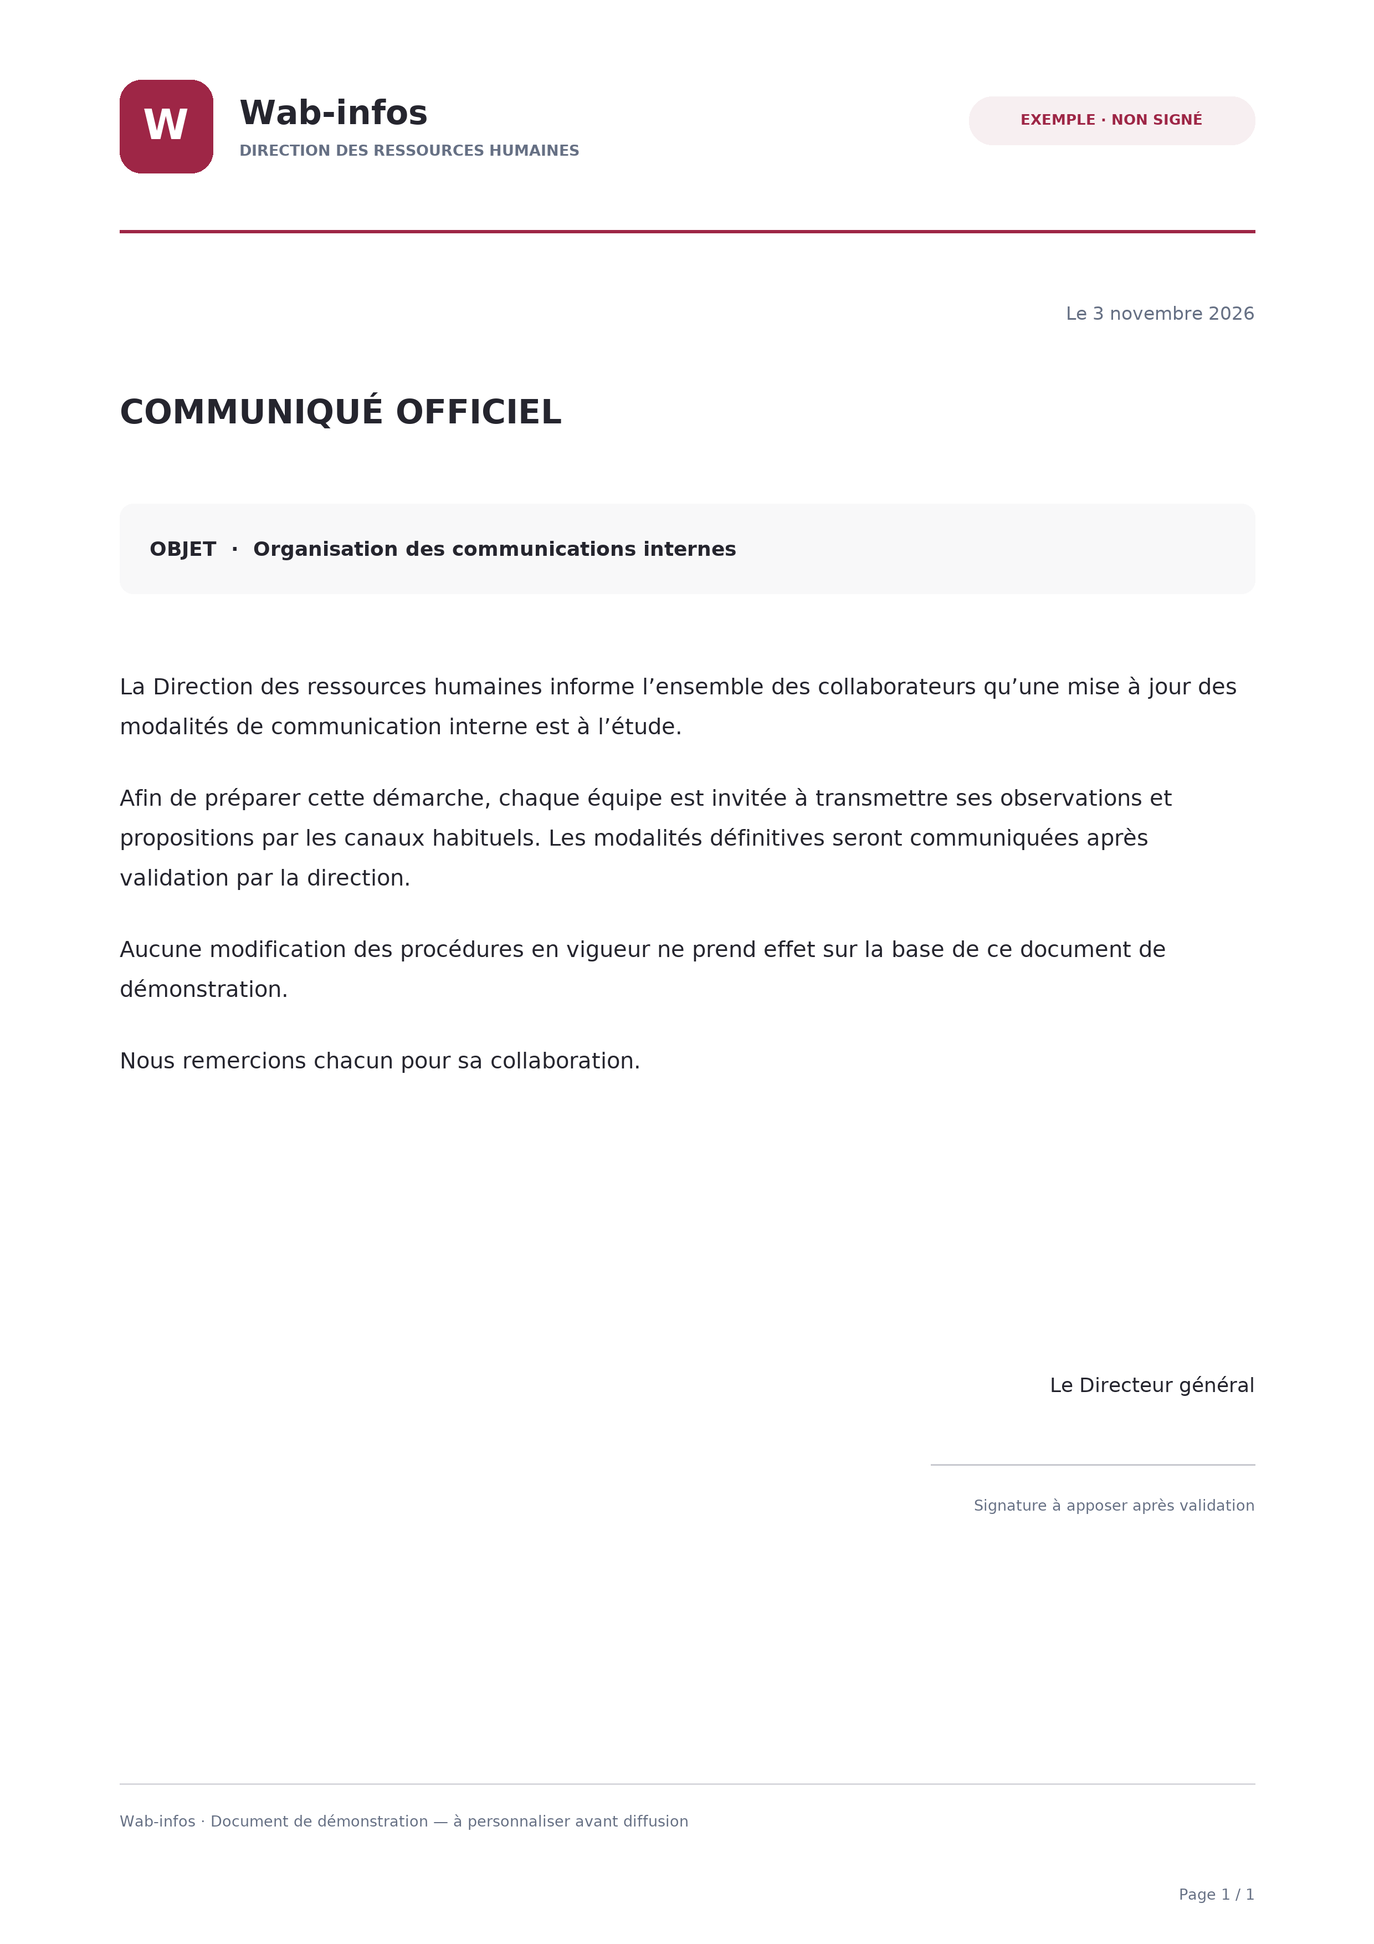
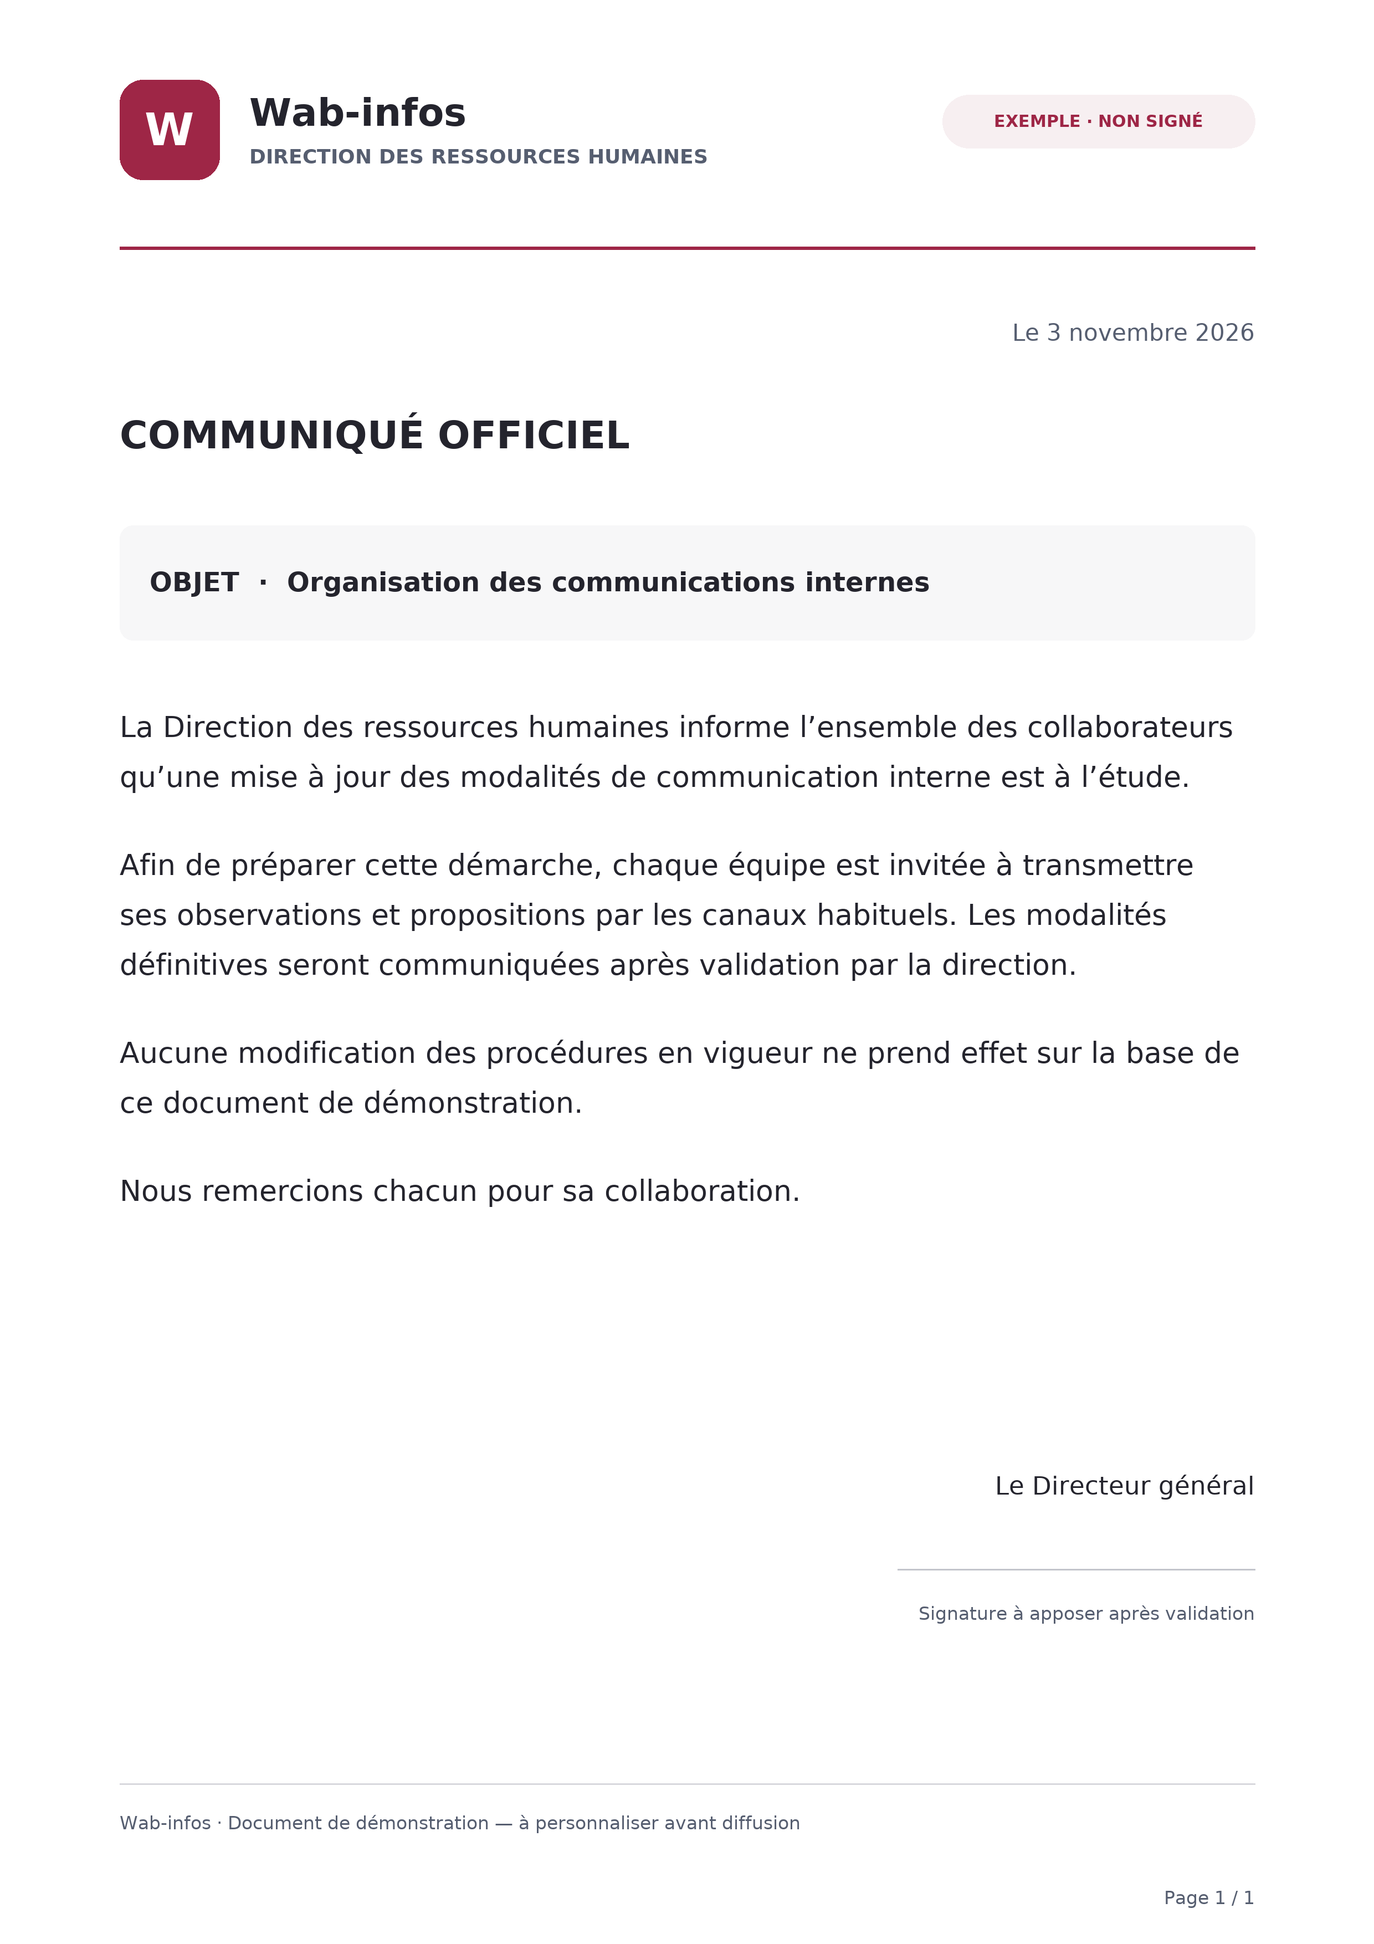
fix(rh): enlarge official template and document typography

diff --git a/apps/redaction/src/components/redaction/rh/official-documents.tsx b/apps/redaction/src/components/redaction/rh/official-documents.tsx
@@ -211,11 +211,11 @@ export function OfficialDocuments() {
       </div>
       <div className="space-y-5 p-4 sm:p-6">
         <div className="flex flex-col gap-3 sm:flex-row sm:items-center sm:justify-between">
-          <div><h3 className="text-sm font-bold">Bibliothèque des modèles</h3><p className="mt-0.5 text-xs text-muted-foreground">{templates.length} modèle{templates.length > 1 ? 's' : ''} enregistré{templates.length > 1 ? 's' : ''} · Accès RH privé</p></div>
+          <div><h3 className="text-sm font-bold">Bibliothèque des modèles</h3><p className="mt-0.5 text-sm text-muted-foreground">{templates.length} modèle{templates.length > 1 ? 's' : ''} enregistré{templates.length > 1 ? 's' : ''} · Accès RH privé</p></div>
           <label className="relative block w-full sm:max-w-64"><span className="sr-only">Rechercher un modèle</span><Search aria-hidden className="pointer-events-none absolute left-3 top-1/2 h-4 w-4 -translate-y-1/2 text-muted-foreground" /><input className={input + ' pl-9'} type="search" value={templateSearch} onChange={event => setTemplateSearch(event.target.value)} placeholder="Rechercher un modèle…" /></label>
         </div>
         <div className="flex flex-wrap gap-2" role="group" aria-label="Filtrer les modèles">
-          {([['tous', 'Tous'], ['lettre', 'Lettres'], ['communique', 'Communiqués']] as const).map(([value, label]) => <button key={value} type="button" aria-pressed={templateFilter === value} onClick={() => setTemplateFilter(value)} className={`rounded-full border px-3.5 py-1.5 text-xs font-semibold transition-colors focus-visible:outline-2 focus-visible:outline-primary ${templateFilter === value ? 'border-primary bg-primary text-primary-foreground' : 'border-border bg-background text-muted-foreground hover:border-primary/40 hover:text-foreground'}`}>{label}</button>)}
+          {([['tous', 'Tous'], ['lettre', 'Lettres'], ['communique', 'Communiqués']] as const).map(([value, label]) => <button key={value} type="button" aria-pressed={templateFilter === value} onClick={() => setTemplateFilter(value)} className={`rounded-full border px-3.5 py-1.5 text-sm font-semibold transition-colors focus-visible:outline-2 focus-visible:outline-primary ${templateFilter === value ? 'border-primary bg-primary text-primary-foreground' : 'border-border bg-background text-muted-foreground hover:border-primary/40 hover:text-foreground'}`}>{label}</button>)}
         </div>
         {loadingTemplates ? <div role="status" className="grid gap-2.5 sm:grid-cols-2 xl:grid-cols-3">{[0, 1, 2].map(i => <div key={i} className="h-32 animate-pulse rounded-2xl border border-border bg-muted/50" />)}</div> : loadError ? <div role="alert" className="rounded-2xl border border-destructive/30 bg-destructive/5 p-4 text-sm"><p className="font-semibold">Bibliothèque indisponible</p><p className="mt-1 text-muted-foreground">{loadError}</p><button type="button" className={button + ' mt-3'} onClick={() => setRefreshKey(value => value + 1)}>Réessayer</button></div> : filteredTemplates.length ? <div className="grid max-h-[22rem] grid-cols-1 gap-2.5 overflow-y-auto pr-1 sm:grid-cols-2 xl:grid-cols-3" role="group" aria-label="Modèles disponibles">
           {filteredTemplates.map(item => {
@@ -223,18 +223,18 @@ export function OfficialDocuments() {
             const Icon = item.kind === 'lettre' ? FileText : Megaphone;
             return <button type="button" key={item.id} aria-pressed={active} disabled={!!busy} onClick={() => switchTemplate(item)} className={`group flex min-h-32 flex-col rounded-2xl border p-4 text-left transition-all focus-visible:outline-2 focus-visible:outline-offset-2 focus-visible:outline-primary disabled:opacity-60 ${active ? 'border-primary/60 bg-primary/[0.08] ring-2 ring-primary/15' : 'border-border bg-background hover:-translate-y-0.5 hover:border-primary/40 hover:shadow-md'}`}>
               <span className="flex w-full items-start justify-between gap-3"><span className={`flex h-9 w-9 shrink-0 items-center justify-center rounded-xl ${active ? 'bg-primary text-primary-foreground' : 'bg-primary/[0.08] text-primary'}`}><Icon className="h-4 w-4" /></span>{active && <span className="inline-flex items-center gap-1 text-[11px] font-bold text-primary"><Check className="h-3.5 w-3.5" /> Sélectionné</span>}</span>
-              <span className="mt-3 line-clamp-2 text-sm font-bold leading-snug">{item.title}</span><span className="mt-1 line-clamp-2 text-xs leading-relaxed text-muted-foreground">{item.subject}</span><span className="mt-auto pt-3 text-[10px] font-bold uppercase tracking-wider text-muted-foreground">{OFFICIAL_KINDS[item.kind]} · v{item.version}</span>
+              <span className="mt-3 line-clamp-2 text-base font-bold leading-snug">{item.title}</span><span className="mt-1 line-clamp-2 text-sm leading-relaxed text-muted-foreground">{item.subject}</span><span className="mt-auto pt-3 text-xs font-bold uppercase tracking-wider text-muted-foreground">{OFFICIAL_KINDS[item.kind]} · v{item.version}</span>
             </button>;
           })}
         </div> : <div className="rounded-2xl border border-dashed border-border bg-muted/30 px-5 py-8 text-center"><FileText className="mx-auto h-7 w-7 text-muted-foreground" /><p className="mt-2 text-sm font-semibold">{templates.length ? 'Aucun modèle ne correspond à votre recherche.' : 'Votre bibliothèque est encore vide.'}</p><p className="mt-1 text-xs text-muted-foreground">{templates.length ? 'Essayez un autre mot-clé ou filtre.' : 'Créez votre premier modèle pour réutiliser vos lettres et communiqués.'}</p></div>}
         <div className="rounded-2xl border border-border bg-muted/30 p-4 sm:p-5">
-          <div className="mb-4 flex flex-wrap items-center justify-between gap-2"><div><h3 className="text-sm font-bold">{selected ? 'Modifier le modèle sélectionné' : 'Créer un modèle'}</h3><p className="mt-0.5 text-xs text-muted-foreground">Le nom, l’objet et le texte du document seront enregistrés dans votre bibliothèque.</p></div>{selected && <span className="rounded-full border border-primary/20 bg-primary/[0.08] px-2.5 py-1 text-[11px] font-semibold text-primary">Version {selected.version}</span>}</div>
+          <div className="mb-4 flex flex-wrap items-center justify-between gap-2"><div><h3 className="text-sm font-bold">{selected ? 'Modifier le modèle sélectionné' : 'Créer un modèle'}</h3><p className="mt-0.5 text-sm text-muted-foreground">Le nom, l’objet et le texte du document seront enregistrés dans votre bibliothèque.</p></div>{selected && <span className="rounded-full border border-primary/20 bg-primary/[0.08] px-2.5 py-1 text-[11px] font-semibold text-primary">Version {selected.version}</span>}</div>
           <div className="grid gap-3 sm:grid-cols-[minmax(0,1fr)_auto]">
             <label className="text-sm font-medium">Nom du modèle<input className={input + ' mt-1'} maxLength={120} value={title} onChange={event => setTitle(event.target.value)} placeholder="Ex. Convocation à une réunion" /></label>
             <label className="text-sm font-medium">Type<select className={input + ' mt-1'} value={kind} onChange={event => edit('kind', event.target.value)}><option value="lettre">Lettre administrative</option><option value="communique">Communiqué</option></select></label>
           </div>
           <div className="mt-4 flex flex-wrap gap-2"><button className="inline-flex min-h-10 items-center gap-2 rounded-xl bg-primary px-4 py-2 text-sm font-bold text-primary-foreground transition-opacity hover:opacity-90 disabled:opacity-50" disabled={!!busy || !title.trim() || !subject.trim() || !body.trim()} type="button" onClick={() => void save()}><Check className="h-4 w-4" />{busy === 'save' ? 'Enregistrement…' : selected ? 'Mettre à jour le modèle' : 'Enregistrer le modèle'}</button>{selected && <button className={button + ' inline-flex items-center gap-2'} disabled={!!busy} type="button" onClick={() => setArchivePrompt(true)}><Archive className="h-4 w-4" /> Archiver</button>}</div>
-          <p className="mt-3 text-xs text-muted-foreground">Le contenu se renseigne dans « Rédaction et validation » ci-dessous. Un modèle enregistré reste modifiable avant chaque export.</p>
+          <p className="mt-3 text-sm text-muted-foreground">Le contenu se renseigne dans « Rédaction et validation » ci-dessous. Un modèle enregistré reste modifiable avant chaque export.</p>
         </div>
       </div>
     </section>

diff --git a/apps/redaction/src/lib/redaction/rh/official-export.ts b/apps/redaction/src/lib/redaction/rh/official-export.ts
@@ -53,35 +53,35 @@ function wrap(ctx: CanvasRenderingContext2D, text: string, width: number): strin
 /** Calcule toutes les positions AVANT de dessiner : aucun contenu ne peut être coupé. */
 export function planOfficialPage(ctx: CanvasRenderingContext2D, doc: OfficialExport): Layout {
   const lines: Line[] = [];
-  setFont(ctx, 11);
+  setFont(ctx, 13);
   const headerText = [doc.settings.documentHeader, doc.settings.companyAddress,
     [doc.settings.companyPhone, doc.settings.companyEmail].filter(Boolean).join(' · ')].filter(Boolean).join('\n');
   const headerX = doc.assets['company-logo'] ? 181 : left;
   const headerRight = doc.assets['document-header'] ? 545 : right;
-  setFont(ctx, 18, true);
+  setFont(ctx, 21, true);
   const nameLines = wrap(ctx, doc.settings.companyName || 'Entreprise', headerRight - headerX);
-  setFont(ctx, 11);
+  setFont(ctx, 13);
   const headerLines = headerText ? wrap(ctx, headerText, headerRight - headerX) : [];
-  const detailsY = 65 + 22 * nameLines.length;
-  const headerBottom = Math.max(145, detailsY + 14 * headerLines.length + 12);
-  if (headerBottom > 250) throw new OfficialPageOverflowError();
-  nameLines.forEach((text, i) => lines.push({ text, x: headerX, y: 65 + 22 * i, size: 18, bold: true }));
-  headerLines.forEach((text, i) => lines.push({ text, x: headerX, y: detailsY + 14 * i, size: 11 }));
+  const detailsY = 65 + 26 * nameLines.length;
+  const headerBottom = Math.max(150, detailsY + 18 * headerLines.length + 15);
+  if (headerBottom > 275) throw new OfficialPageOverflowError();
+  nameLines.forEach((text, i) => lines.push({ text, x: headerX, y: 65 + 26 * i, size: 21, bold: true }));
+  headerLines.forEach((text, i) => lines.push({ text, x: headerX, y: detailsY + 18 * i, size: 13 }));
 
-  setFont(ctx, 10);
+  setFont(ctx, 12);
   const footerLines = doc.settings.documentFooter ? wrap(ctx, doc.settings.documentFooter, right - left) : [];
   const lastFooterBaseline = pageHeight - 40;
-  const firstFooterBaseline = lastFooterBaseline - (footerLines.length - 1) * 13;
+  const firstFooterBaseline = lastFooterBaseline - (footerLines.length - 1) * 17;
   const footerImageY = (footerLines.length ? firstFooterBaseline : pageHeight - 40) - (doc.assets['document-footer'] ? 52 : 12);
   const footerTop = footerImageY - 12;
-  if (footerTop < pageHeight - 210) throw new OfficialPageOverflowError();
-  footerLines.forEach((text, i) => lines.push({ text, x: left, y: firstFooterBaseline + i * 13, size: 10 }));
-  lines.push({ text: 'Page 1 / 1', x: right, y: pageHeight - 16, size: 10, align: 'right' });
+  if (footerTop < pageHeight - 230) throw new OfficialPageOverflowError();
+  footerLines.forEach((text, i) => lines.push({ text, x: left, y: firstFooterBaseline + i * 17, size: 12 }));
+  lines.push({ text: 'Page 1 / 1', x: right, y: pageHeight - 16, size: 11, align: 'right' });
 
-  // Ajustement modéré de 14 à 11 px ; au-delà, l'utilisateur doit condenser son texte.
-  for (const size of [14, 13, 12, 11]) {
+  // Le corps reste à 12 points minimum (16 px). Si nécessaire, demander un texte plus court.
+  for (const size of [18, 17, 16]) {
     const content: Line[] = [];
-    let y = headerBottom + 33;
+    let y = headerBottom + 38;
     function add(text: string, fontSize: number, gap: number, options: { bold?: boolean; align?: CanvasTextAlign } = {}) {
       setFont(ctx, fontSize, options.bold);
       const wrapped = wrap(ctx, text, right - left);
@@ -92,27 +92,27 @@ export function planOfficialPage(ctx: CanvasRenderingContext2D, doc: OfficialExp
       }
       y += gap;
     }
-    add(doc.date, 12, 24, { align: 'right' });
-    if (doc.kind === 'lettre' && doc.recipient) add(`À l’attention de : ${doc.recipient}`, size, 19);
-    add(doc.kind === 'lettre' ? 'LETTRE ADMINISTRATIVE' : 'COMMUNIQUÉ OFFICIEL', 18, 17, { bold: true });
-    add(`Objet : ${doc.subject}`, 15, 23, { bold: true });
-    add(doc.body, size, 20);
+    add(doc.date, 14, 27, { align: 'right' });
+    if (doc.kind === 'lettre' && doc.recipient) add(`À l’attention de : ${doc.recipient}`, size, 23);
+    add(doc.kind === 'lettre' ? 'LETTRE ADMINISTRATIVE' : 'COMMUNIQUÉ OFFICIEL', 22, 20, { bold: true });
+    add(`Objet : ${doc.subject}`, 18, 26, { bold: true });
+    add(doc.body, size, 24);
     let signatureY: number | null = null;
     if (doc.signed) {
-      setFont(ctx, 12);
+      setFont(ctx, 14);
       const titles = wrap(ctx, doc.settings.directorTitle || 'Directeur général', 300);
-      titles.forEach(text => { content.push({ text, x: right, y, size: 12, align: 'right' }); y += 18; });
+      titles.forEach(text => { content.push({ text, x: right, y, size: 14, align: 'right' }); y += 21; });
       if (doc.signatureMode === 'image') { signatureY = y; y += 77; }
       else {
-        setFont(ctx, 20, false, true);
+        setFont(ctx, 22, false, true);
         for (const text of wrap(ctx, doc.settings.directorName, 300)) {
-          content.push({ text, x: right, y: y + 24, size: 20, italic: true, align: 'right' }); y += 27;
+          content.push({ text, x: right, y: y + 26, size: 22, italic: true, align: 'right' }); y += 30;
         }
         y += 14;
       }
-      setFont(ctx, 13, true);
+      setFont(ctx, 15, true);
       for (const text of wrap(ctx, doc.settings.directorName, 300)) {
-        content.push({ text, x: right, y, size: 13, bold: true, align: 'right' }); y += 18;
+        content.push({ text, x: right, y, size: 15, bold: true, align: 'right' }); y += 21;
       }
     }
     if (y <= footerTop - 18) {

diff --git a/docs/module-rh-redaction.md b/docs/module-rh-redaction.md
@@ -342,4 +342,4 @@ La table `redaction_rh.audit_log` existe déjà dans `rh-initial.sql` : **aucune
 
 L'administrateur peut utiliser un modèle ou rédiger directement, puis donner des consignes à l'Assistant RH IA configuré dans la Rédaction. La réponse est un **brouillon**, à relire et corriger ; aucune diffusion automatique n'a lieu. L'éditeur reprend les paramètres Entreprise, logo, visuels d'entête/pied et signature DG existants. Un visa explicite et un nom de DG configuré sont requis pour *afficher* la signature ; toute modification du texte, de la date, du destinataire, du type ou du mode de signature retire ce visa. Les exports restent possibles sans signature (brouillons). La signature texte/image est **visuelle**, ni cryptographique, ni certifiée, ni une preuve d'accord du DG : réserver l'accès à ses images, faire valider les documents par le signataire réel et respecter la politique interne de signature.
 
-Les lettres et communiqués sont composés sur **une seule page A4**. La taille du texte peut s'ajuster légèrement (14 à 11 px) ; si le texte, les coordonnées, l'entête, le pied de page ou la signature ne tiennent pas lisiblement, l'aperçu, l'impression et les téléchargements sont bloqués avec un message demandant de condenser le contenu. Aucune coupe ni deuxième page n'est produite. La rédaction IA est invitée à produire un texte concis, mais la vérification finale du format a lieu dans le navigateur. L'aperçu, l'impression, le PDF et le PNG utilisent la même composition sur canvas : PNG A4 2480 × 3508 pixels (300 dpi nominal) et PDF A4 d'une page. Les brouillons rédigés et fichiers exportés ne sont pas archivés côté serveur ; le journal des modèles ne démontre ni validation du document ni impression effective. Protéger et conserver les fichiers selon la politique RH et ne pas laisser les clés ou documents confidentiels sur un poste partagé. Vérifier en préproduction le fournisseur IA, les droits PostgreSQL, les images officielles et les exports mobiles. Aucun push mobile n'est expédié automatiquement par l'ouverture de l'outil ; les annonces RH existantes doivent être configurées et diffusées séparément après déploiement et validation.
+Les lettres et communiqués sont composés sur **une seule page A4**. Le corps du texte s'ajuste de 18 à 16 px (12 points minimum) ; si le texte, les coordonnées, l'entête, le pied de page ou la signature ne tiennent pas lisiblement, l'aperçu, l'impression et les téléchargements sont bloqués avec un message demandant de condenser le contenu. Aucune coupe ni deuxième page n'est produite. La rédaction IA est invitée à produire un texte concis, mais la vérification finale du format a lieu dans le navigateur. L'aperçu, l'impression, le PDF et le PNG utilisent la même composition sur canvas : PNG A4 2480 × 3508 pixels (300 dpi nominal) et PDF A4 d'une page. Les brouillons rédigés et fichiers exportés ne sont pas archivés côté serveur ; le journal des modèles ne démontre ni validation du document ni impression effective. Protéger et conserver les fichiers selon la politique RH et ne pas laisser les clés ou documents confidentiels sur un poste partagé. Vérifier en préproduction le fournisseur IA, les droits PostgreSQL, les images officielles et les exports mobiles. Aucun push mobile n'est expédié automatiquement par l'ouverture de l'outil ; les annonces RH existantes doivent être configurées et diffusées séparément après déploiement et validation.
